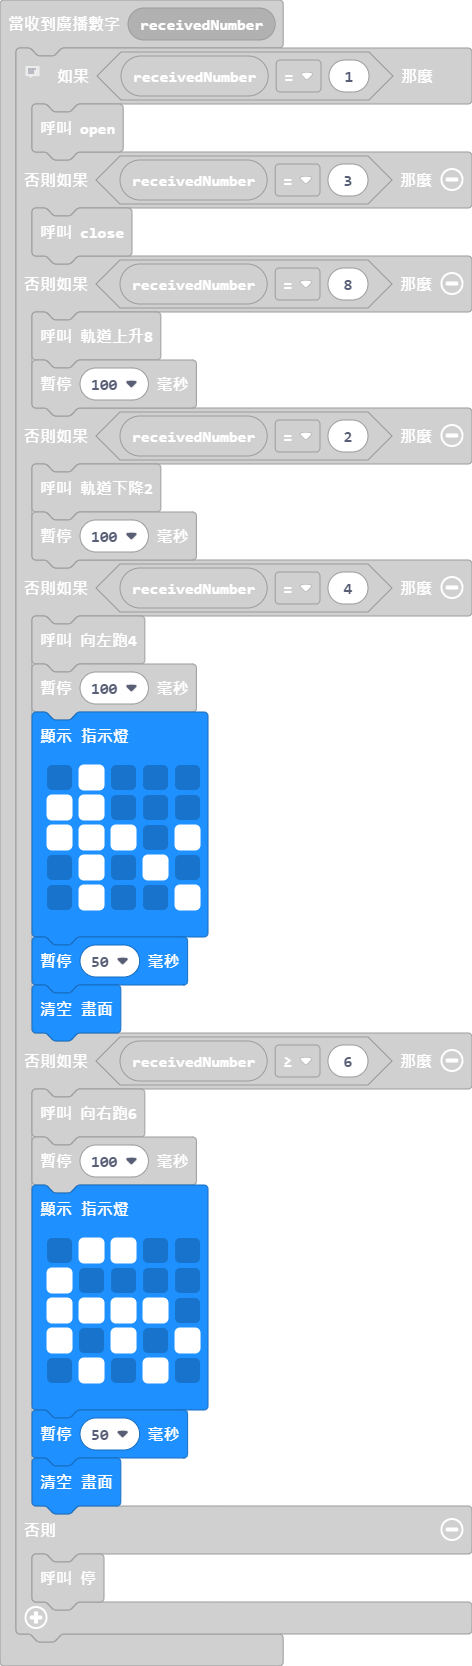
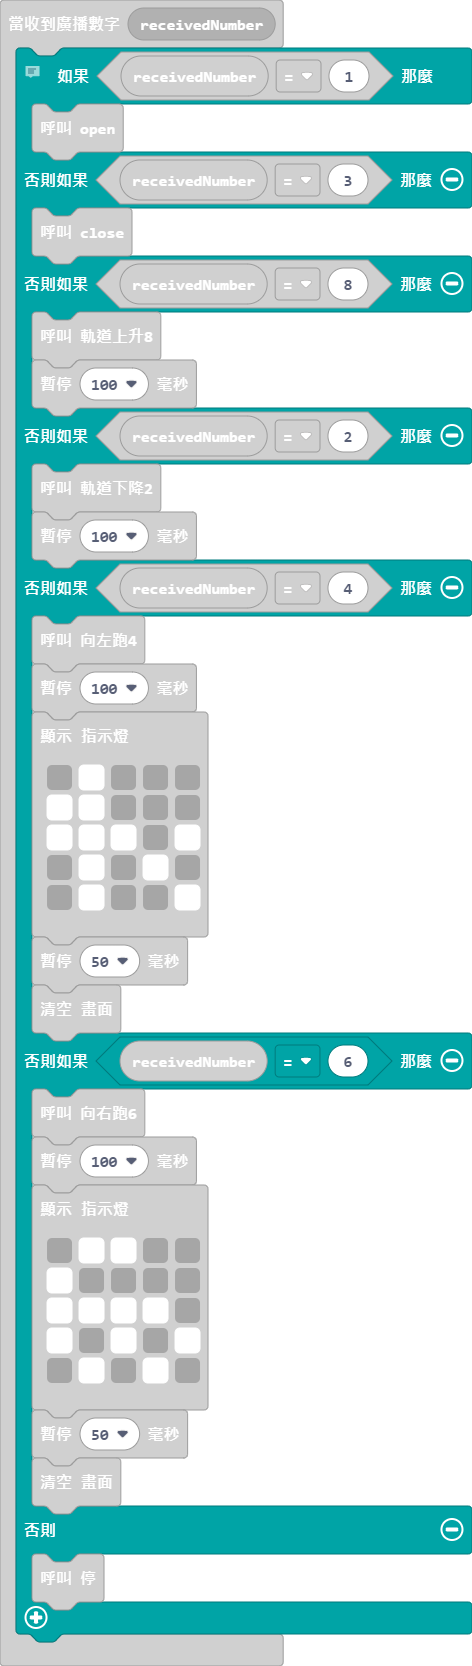
更新 main.blocks, main.ts

diff --git a/main.ts b/main.ts
@@ -32,7 +32,7 @@ radio.onReceivedNumber(function (receivedNumber) {
             `)
         basic.pause(50)
         basic.clearScreen()
-    } else if (receivedNumber >= 6) {
+    } else if (receivedNumber == 6) {
         向右跑6()
         basic.pause(100)
         basic.showLeds(`
